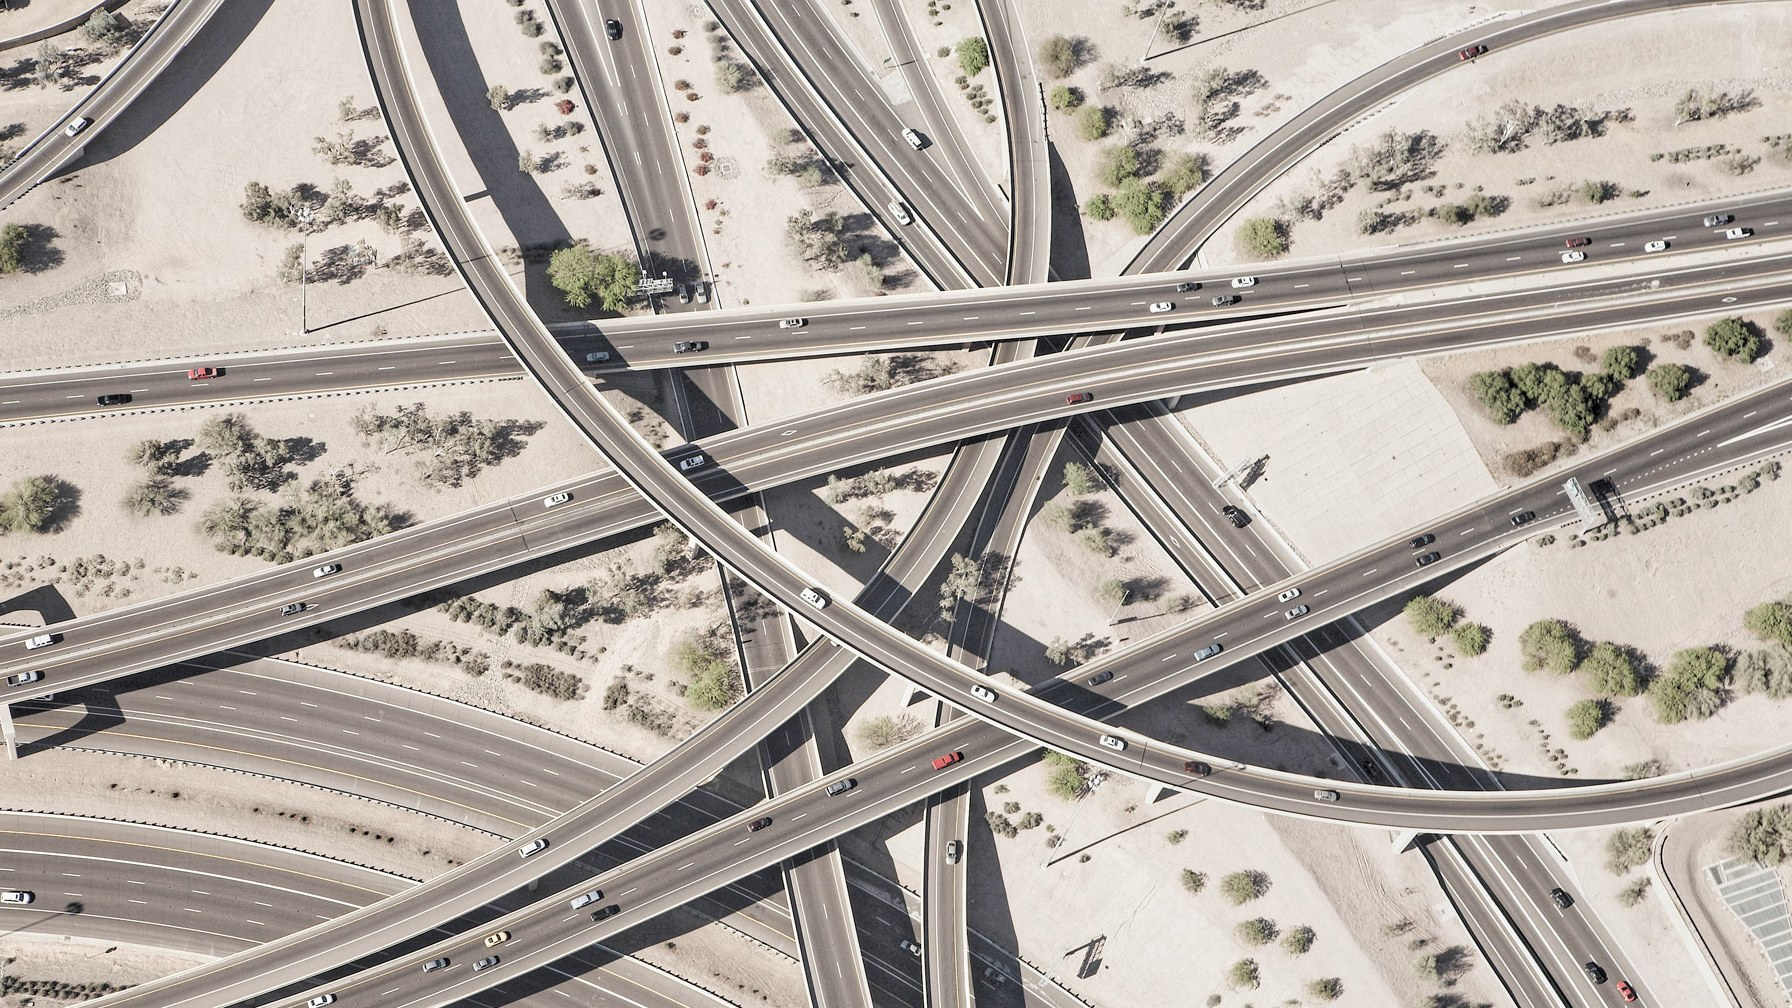
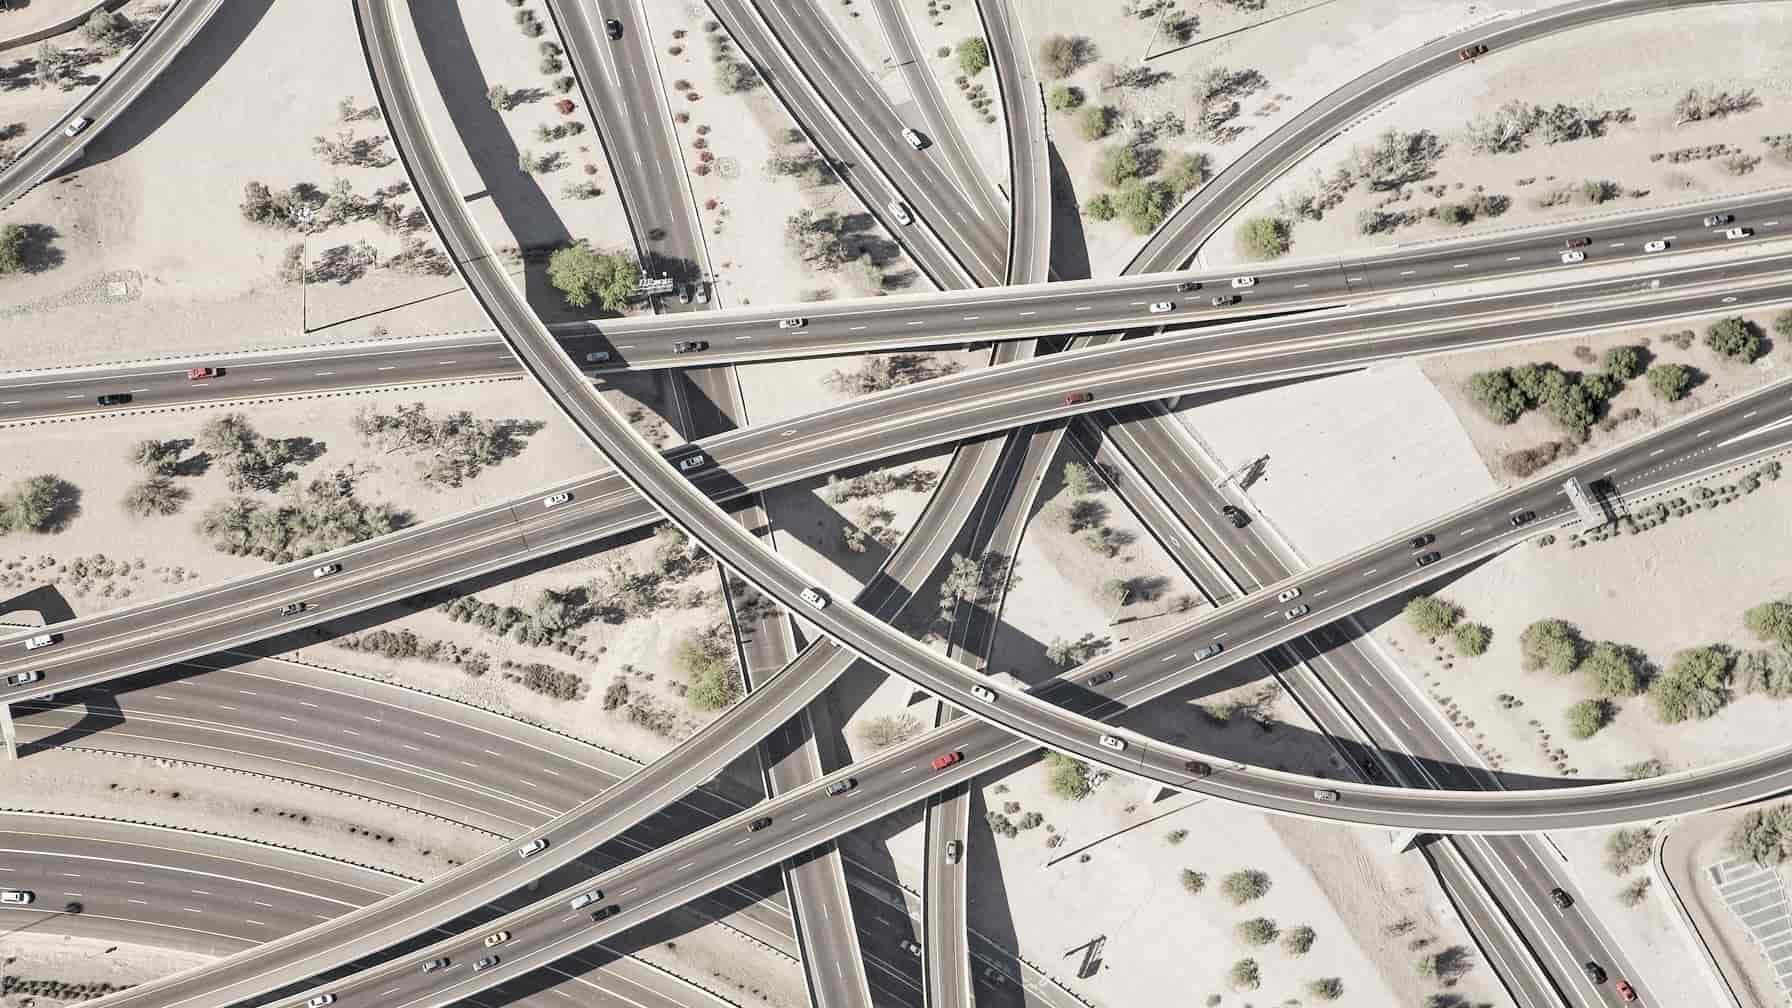
image fixed

diff --git a/app/static/js/results.js b/app/static/js/results.js
@@ -18,6 +18,7 @@ function toggle(element, lat, long) {
     // If the element is a new element
     var index = wypts.map(function (x) { return x.location.lat; }).indexOf(lat);
     if (activeRow != element) {
+        // Another element is already open
         if (activeRow != "") {
             while (index > -1) {
                 wypts.splice(index, 1);
@@ -31,9 +32,10 @@ function toggle(element, lat, long) {
         $("#toggle" + activeRow).css("visibility", "visible");
         // document.getElementById("result" + activeRow).scrollIntoView();
 
-        // No new active element - the element clicked is the currently active element
+    // No new active element - the element clicked is the currently active element - closing element
     } else {
         activeRow = "";
+        console.log(index);
         while (index > -1) {
             wypts.splice(index, 1);
             index = wypts.map(function (x) { return x.location.lat; }).indexOf(lat);
@@ -53,7 +55,7 @@ function toggleMyRoute(element, lat, long, name) {
     } else {
         $("#toggle" + element).attr("src", "static/images/plus.png")
         var idx = 0;
-        while (idx < wypt_names.length && $.inArray(name, wypt_names[idx]) == -1) { // while name not found
+        while (idx < wypt_names.length && $.inArray(element, wypt_names[idx]) == -1) { // while element not found
             idx++;
         }
 

diff --git a/app/static/main.css b/app/static/main.css
@@ -53,7 +53,7 @@ html, body {
     position: fixed;
     height: 100%;
     width: 100%;
-    background-image: url("images/aerial4.jpg");
+    background-image: url("images/aerial.jpg");
     background-position: center;
     background-repeat: no-repeat;
     background-size: cover;
